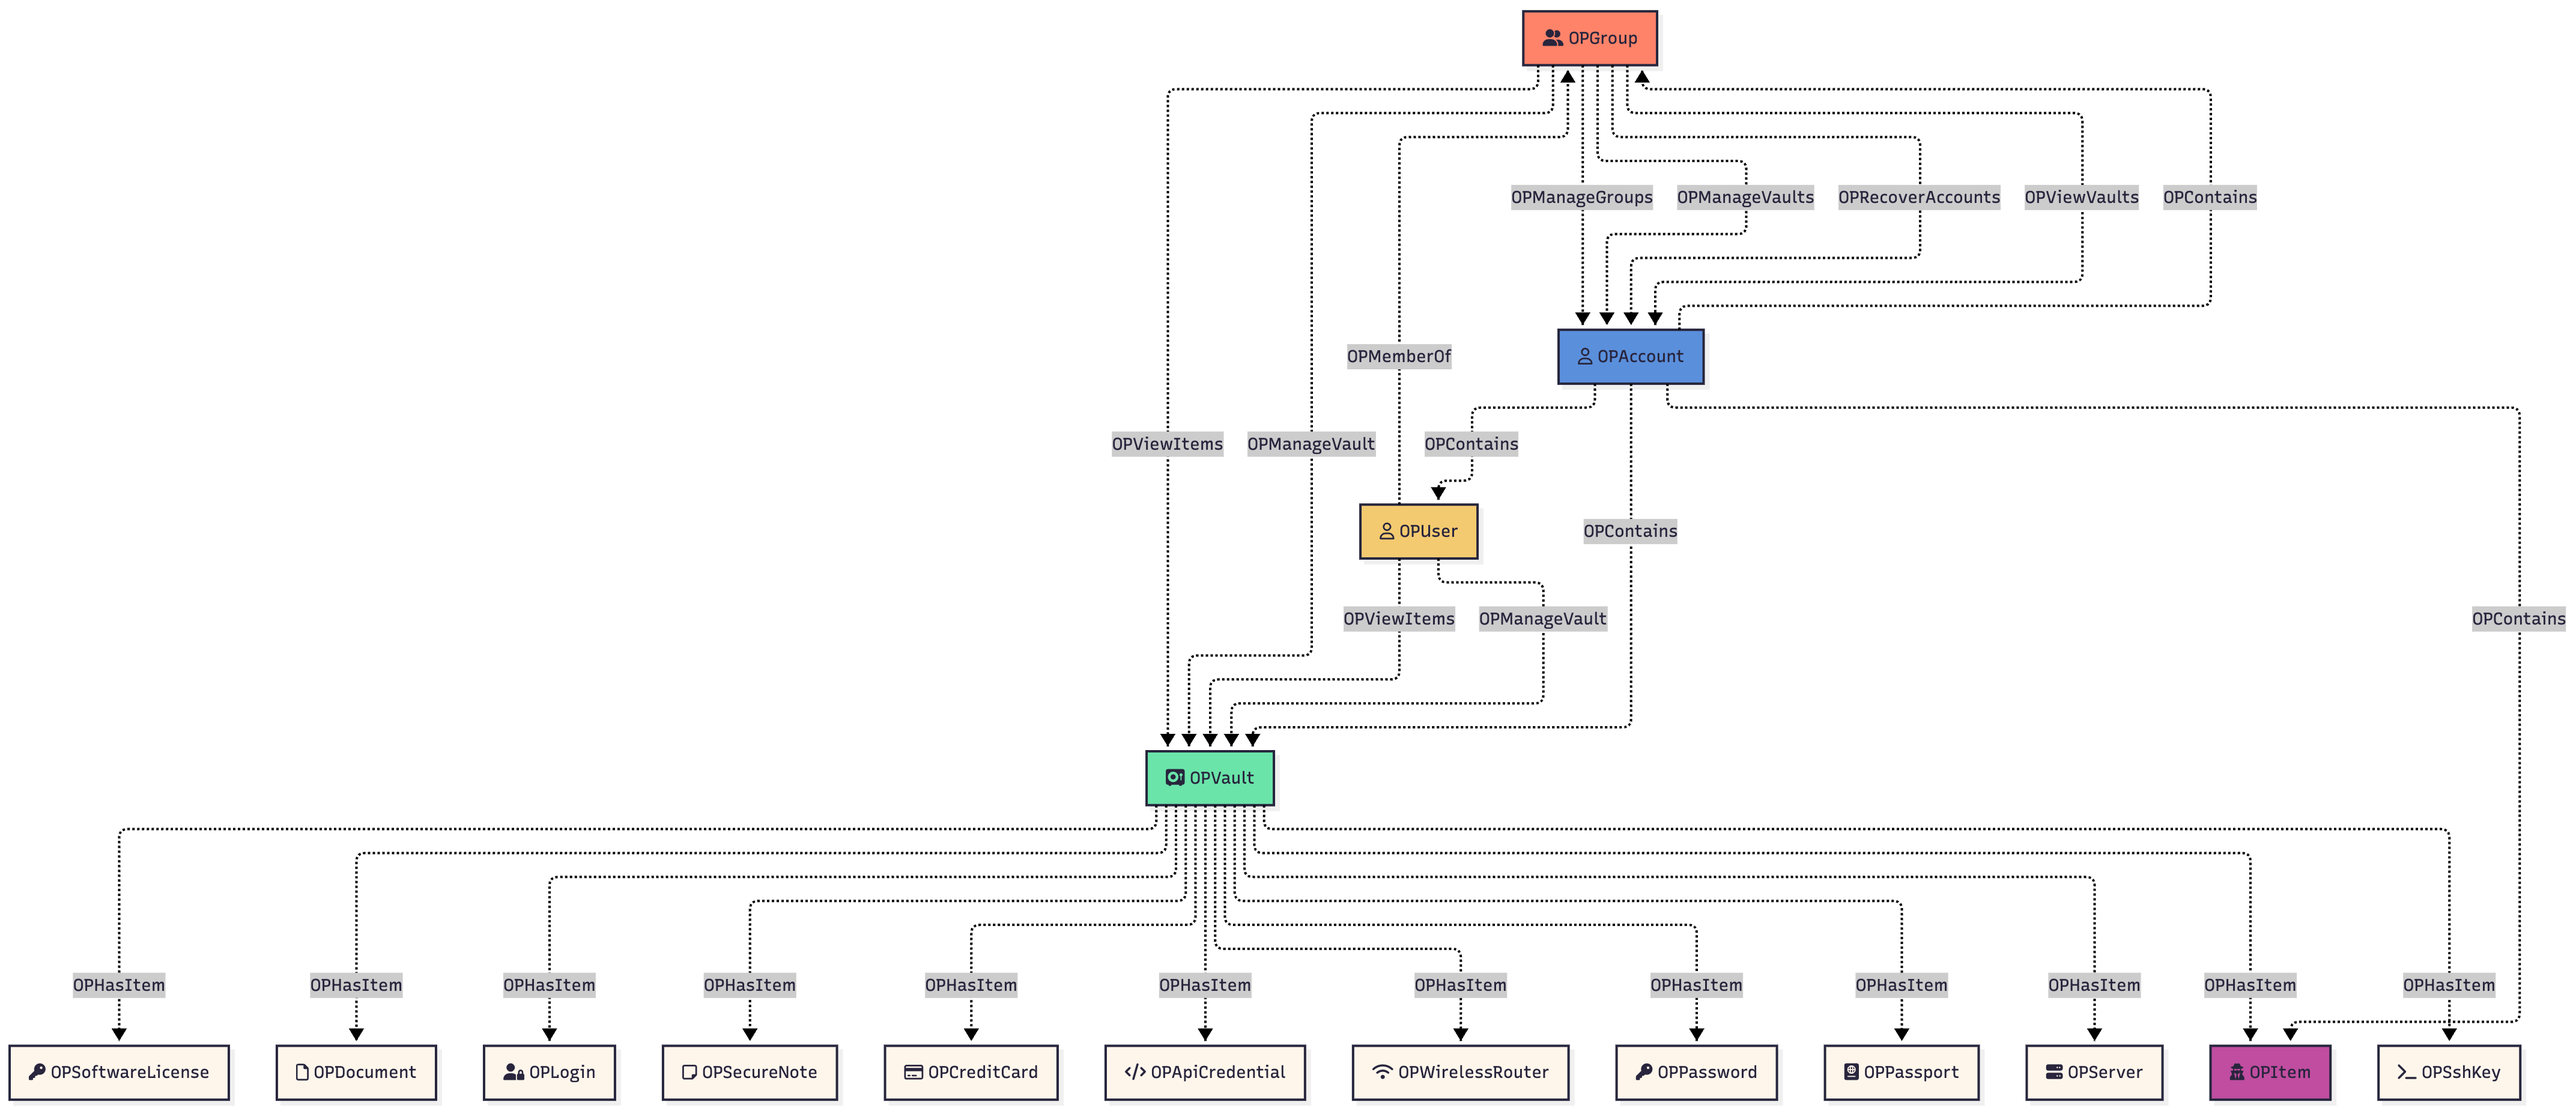
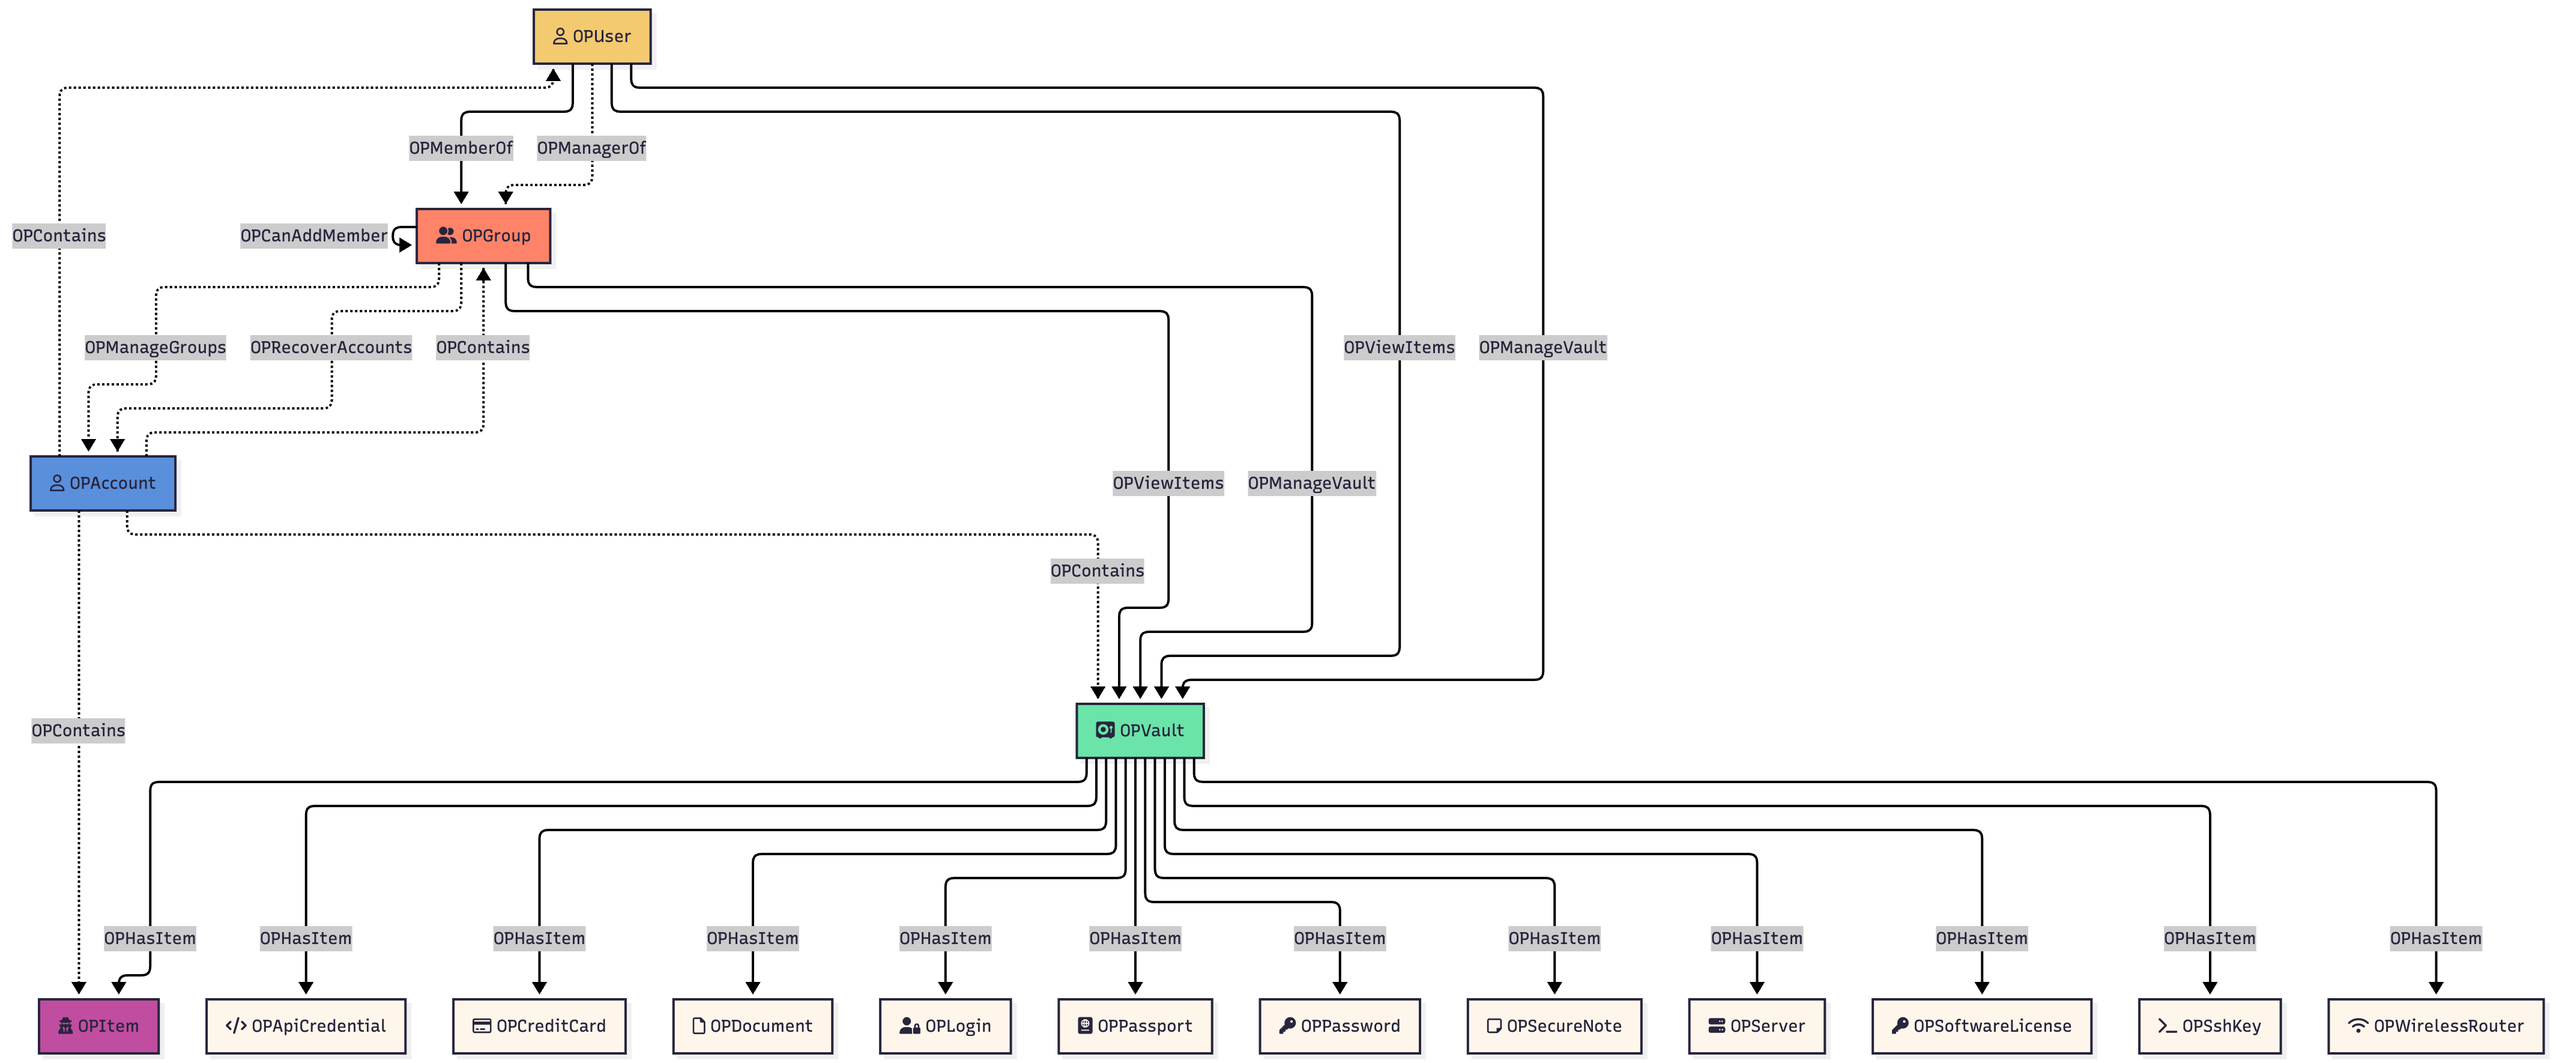
Added OPCanAddMember edge

diff --git a/README.md b/README.md
@@ -263,7 +263,7 @@ under the `Apache-2.0` license. A full copy of the license may be found in the t
 | MANAGE_BILLING              | x      |                |          |                    |
 | MANAGE_GROUPS               | x      | x              |          |                    |
 | MANAGE_TEMPLATES            | x      | x              |          |                    |
-| MANAGE_VAULTS               | x      |                |          |                    |
+| MANAGE_VAULTS               | x      | x              |          |                    |
 | PROVISION_PEOPLE            |        |                |          | x                  |
 | SUSPEND_PERSON              | x      | x              |          |                    |
 | SUSPEND_TEAM                | x      |                |          |                    |
@@ -289,14 +289,14 @@ under the `Apache-2.0` license. A full copy of the license may be found in the t
 | DELETE_PERSON               |                             |                 |                 |                |                | *6*                    |               |               |                  |                   |
 | DELETE_TEAM                 |                             |                 |                 | *4*            |                |                        |               |               |                  |                   |
 | MANAGE_BILLING              |                             |                 | *3*             | 3              |                |                        |               |               |                  |                   |
-| MANAGE_GROUPS               |                             |                 |                 |                |                |                        |               |               |                  | *10*              |
+| *MANAGE_GROUPS*             |                             |                 |                 |                |                |                        |               |               |                  | *10*              |
 | MANAGE_TEMPLATES            |                             | *2*             |                 | 2              |                |                        |               |               |                  |                   |
 | MANAGE_VAULTS               |                             |                 |                 |                |                |                        |               |               |                  |                   |
 | PROVISION_PEOPLE            |                             |                 |                 |                |                |                        |               |               |                  |                   |
 | SUSPEND_PERSON              |                             |                 |                 |                | *5*            | 5                      |               |               |                  |                   |
 | SUSPEND_TEAM                |                             |                 |                 | *4*            |                |                        |               |               |                  |                   |
-| RECOVER_ACCOUNTS            |                             |                 |                 |                |                |                        |               |               |                  |                   |
-| VIEW_ACTIVITY_LOGS          | *1*                         | 1               |                 |                |                |                        |               |               | *9*              |                   |
+| RECOVER_ACCOUNTS            |                             |                 |                 |                |                |                        |               |               | *9*              |                   |
+| VIEW_ACTIVITY_LOGS          | *1*                         | 1               |                 |                |                |                        |               |               |                  |                   |
 | VIEW_ADMINISTRATIVE_SIDEBAR | *1*                         | 1               |                 | 1              | 1              | 1                      | 1             |               | 1                | 1                 |
 | VIEW_BILLING                |                             |                 | *3*             | 3              |                |                        |               |               |                  |                   |
 | VIEW_PEOPLE                 | *1*                         | 1               |                 | 1              | 1              | 1                      | 1             |               | 1                | 1                 |
